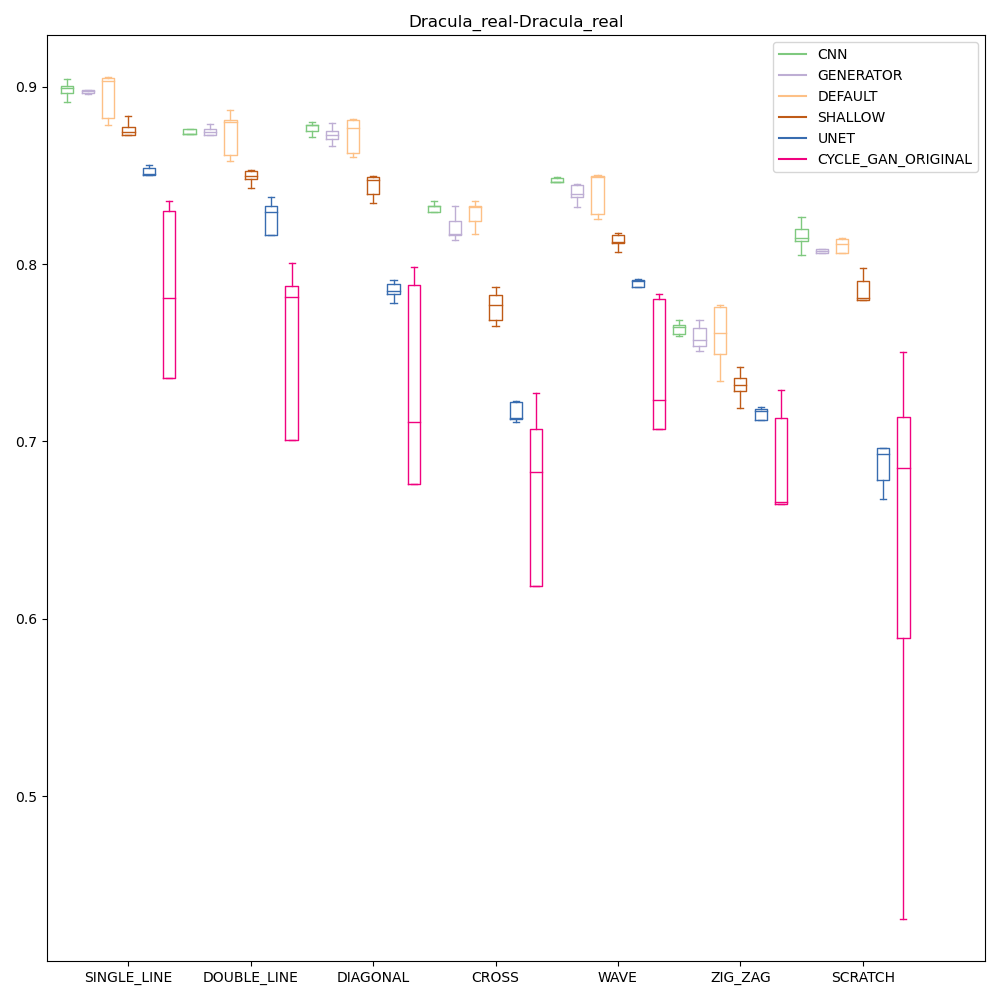
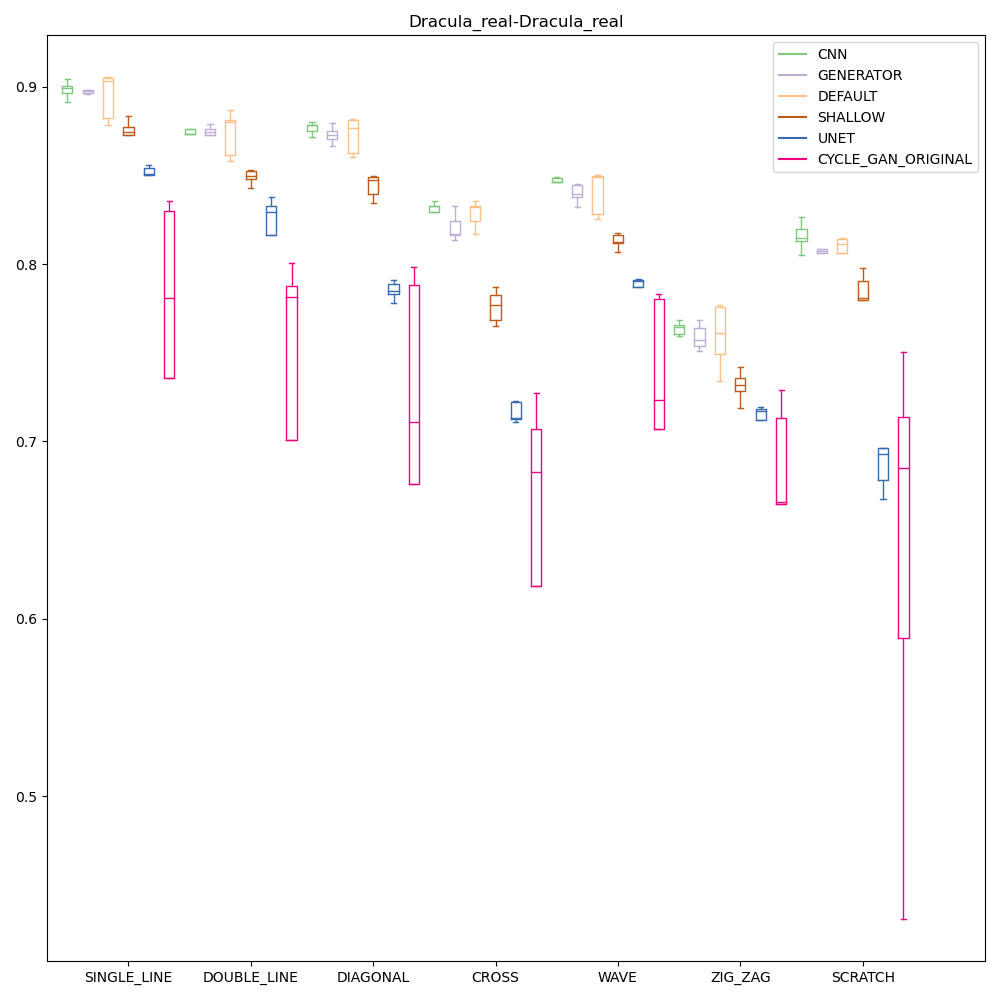
better results plotting

diff --git a/src/visualize.py b/src/visualize.py
@@ -61,7 +61,7 @@ def visualize_plot(result_path):
             # Number of rows
             # Each row of train_test_dataCOMB are the results of scores for each stroketype
             for i, model_data in enumerate(train_test_data_comb):
-                tmp = plt.boxplot(model_data, positions=np.array(range(len(model_data))) * 3 + locs[i], sym='', widths=0.3)
+                tmp = plt.boxplot(model_data, positions=np.array(range(len(model_data))) * 3 + locs[i], sym='', widths=0.25)
                 set_box_color(tmp, colors[i])
                 plt.plot([], c=colors[i], label=models[i])
             if error_name == "RMSE":
